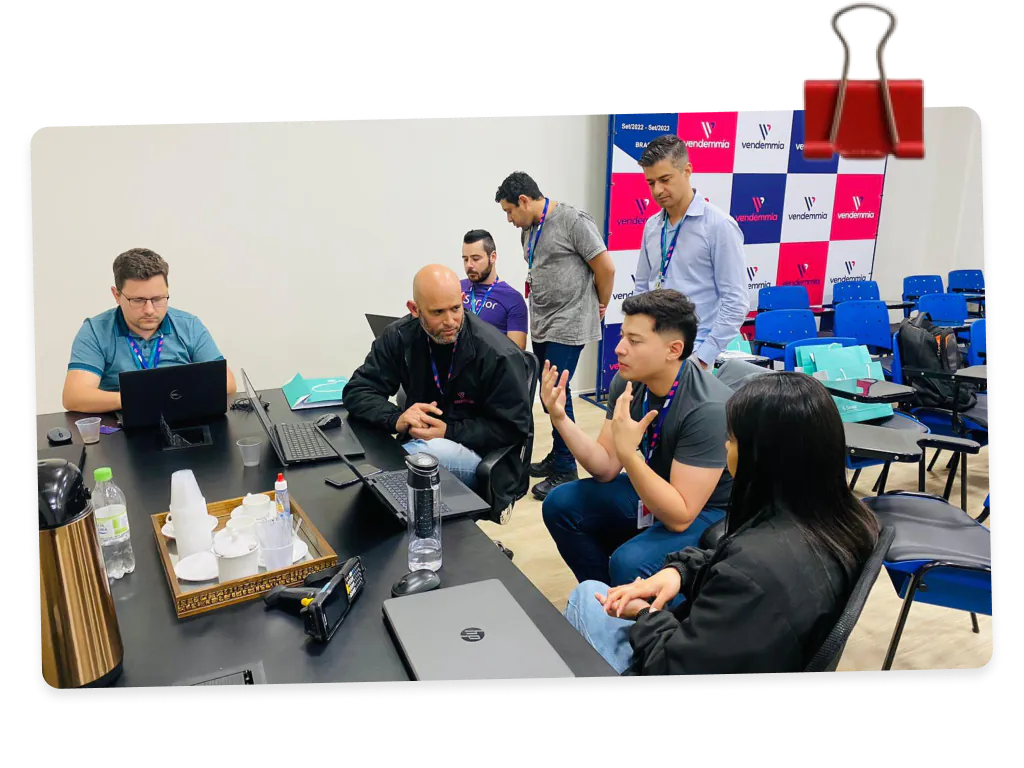
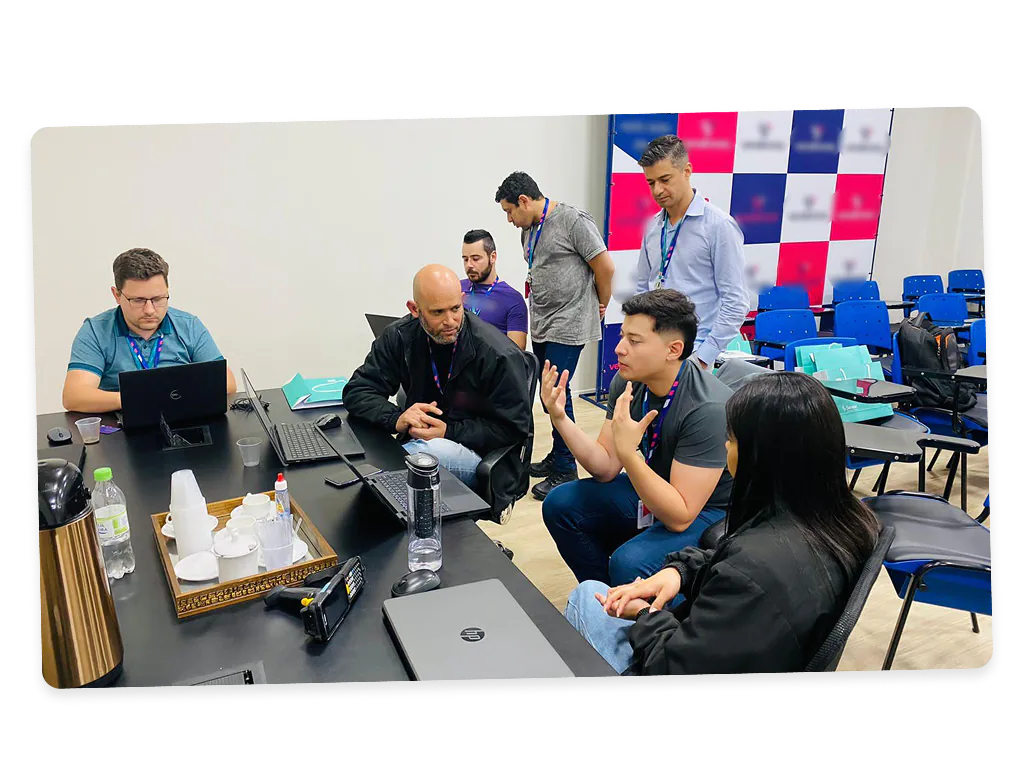
feat: field research photo with blurred brands
Updated resume-img.png with the client brands blurred, reconverted to
WebP (115 KB).

diff --git a/src/components/resume/resume-intro.tsx b/src/components/resume/resume-intro.tsx
@@ -7,7 +7,7 @@ import { Eyebrow } from "../home/section";
 
 /**
  * Abertura da Experiência: título, a narrativa "Como cheguei aqui", cidade, apelido e idiomas,
- * o botão do currículo e uma foto de pesquisa de campo, com moldura própria e fundo
+ * o botão do currículo e uma foto de pesquisa de campo (marcas borradas), com moldura e fundo
  * transparente (original em media/retrato/resume-img.png).
  * O currículo ainda não existe: o botão fica desabilitado, com o texto entre colchetes.
  */
